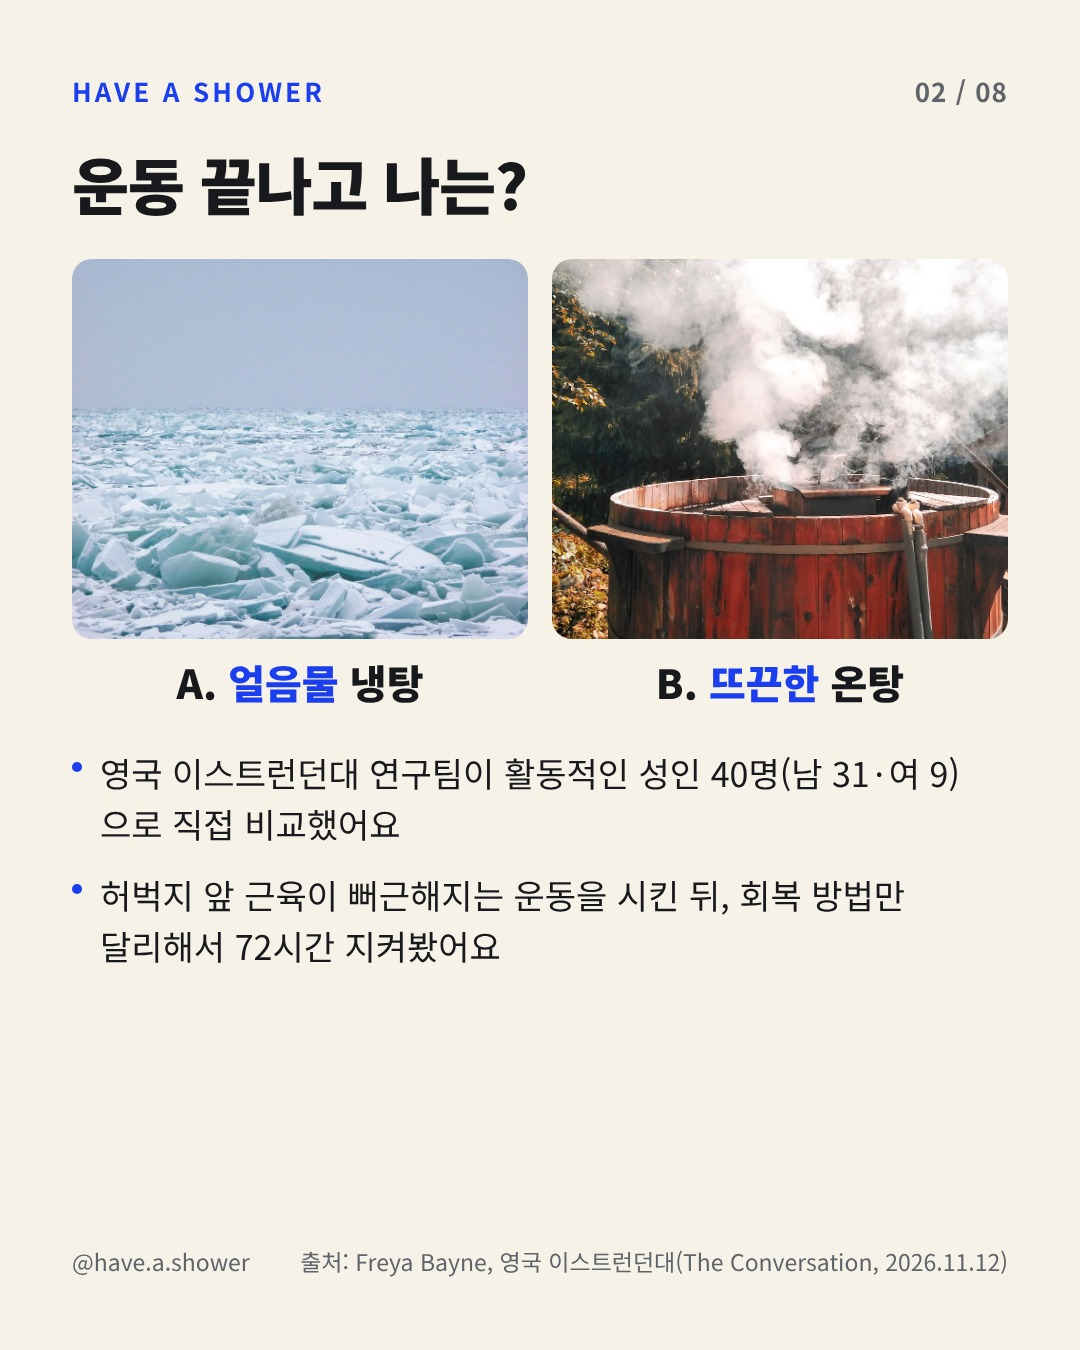
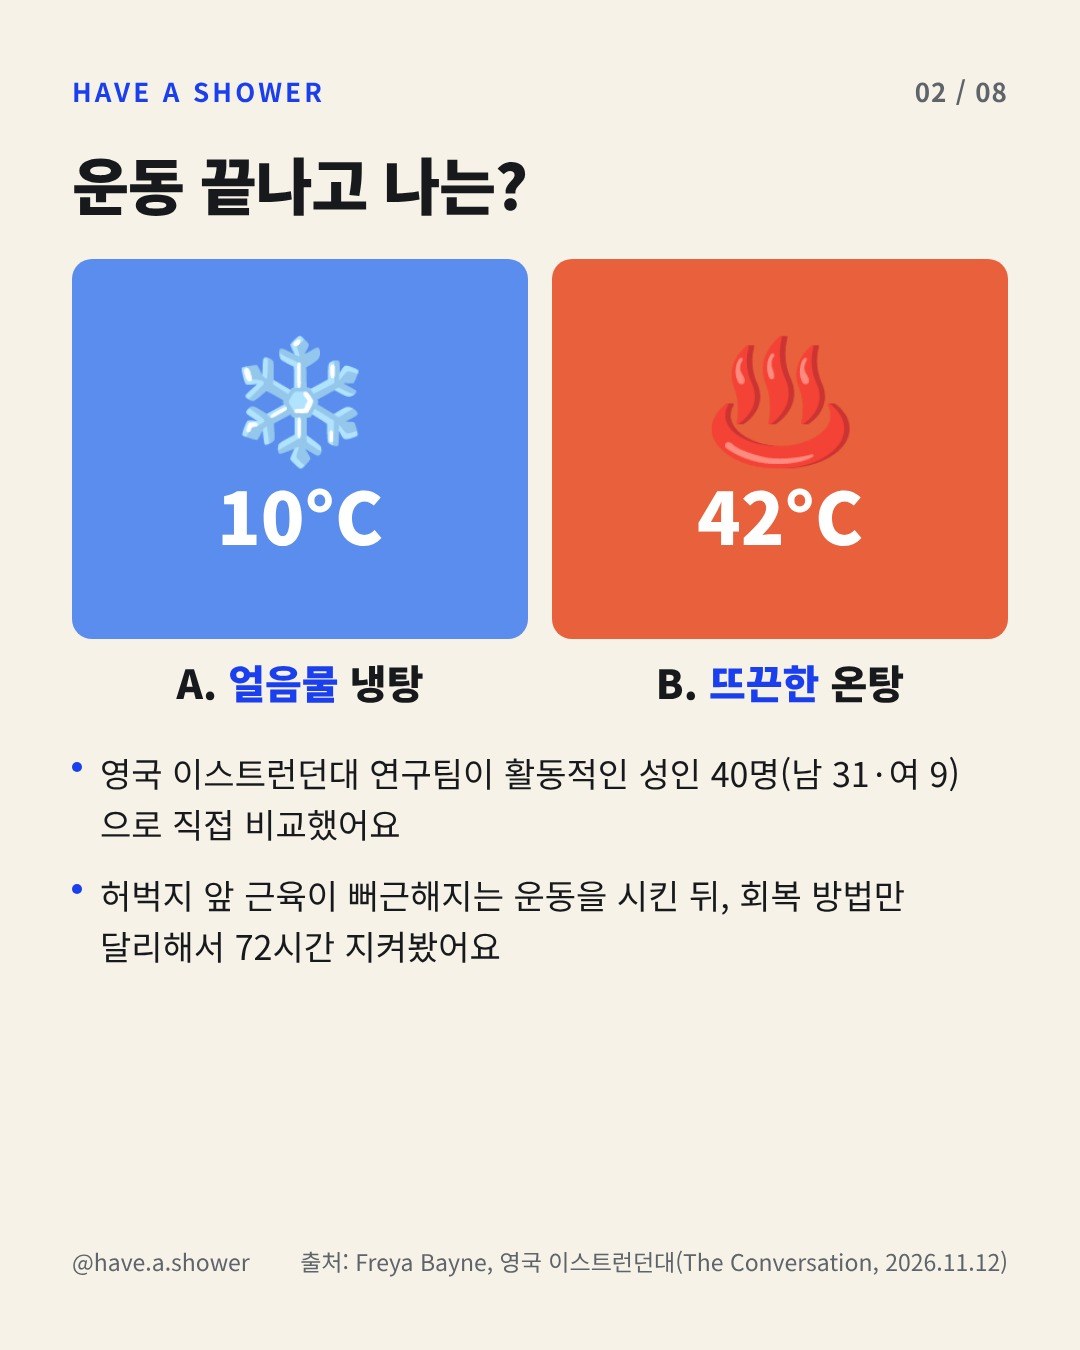
No.20 분위기 사진을 그래픽으로 교체 (사진 규칙)
Claude-Session: https://claude.ai/code/session_01MYgG3nFawowioXgGEyeZyo

Changed region(s): [[0.0611, 0.1867, 0.9472, 0.4978]]

diff --git a/cardnews/project/P20-2-Question.dc.html b/cardnews/project/P20-2-Question.dc.html
@@ -22,10 +22,10 @@ a{color:inherit}
 <h2 style="margin: 0; font-family: 'Gothic A1', 'Noto Sans KR', sans-serif; font-size: 62px; font-weight: 800; line-height: 1.25; letter-spacing: -0.02em; white-space: pre-line">운동 끝나고 나는?</h2>
 
 <div style="display: flex; gap: 24px"><div style="flex: 1; display: flex; flex-direction: column; gap: 14px">
-<div style="height: 380px; border-radius: 20px; overflow: hidden"><img src="/_blob/8d385385e355e4c6eee4ad241f609c9b" alt="" style="width: 100%; height: 100%; object-fit: cover; object-position: 50% 50%; display: block"></div>
+<div style="height: 380px; border-radius: 20px; background: #5B8DEF; display: flex; flex-direction: column; align-items: center; justify-content: center; gap: 10px"><div style="font-size: 120px; line-height: 1">❄</div><div style="font-family: 'Gothic A1', 'Noto Sans KR', sans-serif; font-size: 72px; font-weight: 800; color: #FFFFFF">10°C</div></div>
 <div style="font-family: 'Gothic A1', 'Noto Sans KR', sans-serif; font-size: 40px; font-weight: 800; text-align: center">A. <span style="color: {{accent}}">얼음물</span> 냉탕</div>
 </div><div style="flex: 1; display: flex; flex-direction: column; gap: 14px">
-<div style="height: 380px; border-radius: 20px; overflow: hidden"><img src="/_blob/aa885ee38caf06747531b8c4885c95b9" alt="" style="width: 100%; height: 100%; object-fit: cover; object-position: 40% 60%; display: block"></div>
+<div style="height: 380px; border-radius: 20px; background: #E8613C; display: flex; flex-direction: column; align-items: center; justify-content: center; gap: 10px"><div style="font-size: 120px; line-height: 1">♨</div><div style="font-family: 'Gothic A1', 'Noto Sans KR', sans-serif; font-size: 72px; font-weight: 800; color: #FFFFFF">42°C</div></div>
 <div style="font-family: 'Gothic A1', 'Noto Sans KR', sans-serif; font-size: 40px; font-weight: 800; text-align: center">B. <span style="color: {{accent}}">뜨끈한</span> 온탕</div>
 </div></div>
 <div style="display: flex; flex-direction: column; gap: 20px"><div style="display: flex; gap: 18px; align-items: flex-start">

diff --git a/cardnews/project/P20-6-Heat.dc.html b/cardnews/project/P20-6-Heat.dc.html
@@ -22,7 +22,7 @@ a{color:inherit}
 <h2 style="margin: 0; font-family: 'Gothic A1', 'Noto Sans KR', sans-serif; font-size: 62px; font-weight: 800; line-height: 1.25; letter-spacing: -0.02em; white-space: pre-line">결과 ③ 몸속 회복 신호는
 <span style="color: {{accent}}">따뜻한 쪽</span>이 좋았어요</h2>
 
-<div style="height: 360px; border-radius: 20px; overflow: hidden"><img src="/_blob/aa885ee38caf06747531b8c4885c95b9" alt="김이 나는 온탕" style="width: 100%; height: 100%; object-fit: cover; object-position: 50% 45%; display: block"></div>
+<div style="background: {{accent}}; border-radius: 20px; padding: 44px 52px; display: flex; flex-direction: column; gap: 14px"><div style="font-size: 30px; font-weight: 700; color: rgba(255,255,255,0.85)">♨ 42°C 따뜻한 물 그룹</div><div style="font-family: 'Gothic A1', 'Noto Sans KR', sans-serif; font-size: 76px; font-weight: 800; line-height: 1.15; letter-spacing: -0.03em; color: #FFE14A">열충격단백질(HSP72) ↑</div></div>
 <div style="display: flex; flex-direction: column; gap: 20px"><div style="display: flex; gap: 18px; align-items: flex-start">
 <div style="width: 10px; height: 10px; border-radius: 5px; margin-top: 15px; flex-shrink: 0; background: {{accent}}"></div>
 <div style="font-size: 35px; line-height: 1.5">온열(따뜻한 물·뜨거운 공기) 그룹이 근육 손상·염증 지표 변화가 더 좋았어요</div>

diff --git a/cardnews/project/P20-5-Soreness.dc.html b/cardnews/project/P20-5-Soreness.dc.html
@@ -22,7 +22,7 @@ a{color:inherit}
 <h2 style="margin: 0; font-family: 'Gothic A1', 'Noto Sans KR', sans-serif; font-size: 62px; font-weight: 800; line-height: 1.25; letter-spacing: -0.02em; white-space: pre-line">결과 ② 덜 아픈 느낌은
 <span style="color: {{accent}}">찬물이 1등</span></h2>
 
-<div style="height: 360px; border-radius: 20px; overflow: hidden"><img src="/_blob/8d385385e355e4c6eee4ad241f609c9b" alt="얼음물" style="width: 100%; height: 100%; object-fit: cover; object-position: 50% 60%; display: block"></div>
+<div style="background: {{accent}}; border-radius: 20px; padding: 44px 52px; display: flex; flex-direction: column; gap: 14px"><div style="font-size: 30px; font-weight: 700; color: rgba(255,255,255,0.85)">❄ 찬물 그룹</div><div style="font-family: 'Gothic A1', 'Noto Sans KR', sans-serif; font-size: 76px; font-weight: 800; line-height: 1.15; letter-spacing: -0.03em; color: #FFE14A">느끼는 근육통 ↓ 가장 많이</div></div>
 <div style="display: flex; flex-direction: column; gap: 20px"><div style="display: flex; gap: 18px; align-items: flex-start">
 <div style="width: 10px; height: 10px; border-radius: 5px; margin-top: 15px; flex-shrink: 0; background: {{accent}}"></div>
 <div style="font-size: 35px; line-height: 1.5">찬물에 담근 그룹이 ‘느끼는 근육통’을 가장 잘 줄였어요</div>

diff --git a/cardnews/make_p19_p20.py b/cardnews/make_p19_p20.py
@@ -70,14 +70,14 @@ C20 = {
 write('P20-1-Cover.dc.html', '냉탕 온탕 커버',
       cover(20, '/_blob/6092733fc9fe1049e072d39ca79a9801', '62% 40%', C20[pick.get('20', 'A')]))
 
-def half(img, label, pos='50% 50%'):
+def half(emoji, label, temp, bg):
     return f'''<div style="flex: 1; display: flex; flex-direction: column; gap: 14px">
-<div style="height: 380px; border-radius: 20px; overflow: hidden"><img src="{img}" alt="" style="width: 100%; height: 100%; object-fit: cover; object-position: {pos}; display: block"></div>
+<div style="height: 380px; border-radius: 20px; background: {bg}; display: flex; flex-direction: column; align-items: center; justify-content: center; gap: 10px"><div style="font-size: 120px; line-height: 1">{emoji}</div><div style="font-family: {GOTHIC}; font-size: 72px; font-weight: 800; color: #FFFFFF">{temp}</div></div>
 <div style="font-family: {GOTHIC}; font-size: 40px; font-weight: 800; text-align: center">{label}</div>
 </div>'''
 
 write('P20-2-Question.dc.html', '질문', page(2, 8, f'운동 끝나고 나는?', f'''
-<div style="display: flex; gap: 24px">{half("/_blob/8d385385e355e4c6eee4ad241f609c9b", f'A. {acc("얼음물")} 냉탕')}{half("/_blob/aa885ee38caf06747531b8c4885c95b9", f'B. {acc("뜨끈한")} 온탕', '40% 60%')}</div>
+<div style="display: flex; gap: 24px">{half("❄", f'A. {acc("얼음물")} 냉탕', "10°C", "#5B8DEF")}{half("♨", f'B. {acc("뜨끈한")} 온탕', "42°C", "#E8613C")}</div>
 {bullets(["영국 이스트런던대 연구팀이 활동적인 성인 40명(남 31·여 9)으로 직접 비교했어요", "허벅지 앞 근육이 뻐근해지는 운동을 시킨 뒤, 회복 방법만 달리해서 72시간 지켜봤어요"], 34)}''', S20))
 
 groups = [('❄', '찬물에 몸 담그기', '10°C'), ('♨', '따뜻한 물에 몸 담그기', '42°C'),
@@ -103,11 +103,11 @@ write('P20-4-Strength.dc.html', '결과1 근력', page(4, 8, f'결과 ① 힘이
 {bullets(["어떤 방법도 다른 방법보다 근력을 ‘확실히 더 빨리’ 돌려놓지는 못했어요", "찬물 그룹이 숫자로는 조금 낮았지만, 의미 있는 차이로 보기는 어려웠어요"], 36)}''', S20))
 
 write('P20-5-Soreness.dc.html', '결과2 근육통', page(5, 8, f'결과 ② 덜 아픈 느낌은\n{acc("찬물이 1등")}', f'''
-<div style="height: 360px; border-radius: 20px; overflow: hidden"><img src="/_blob/8d385385e355e4c6eee4ad241f609c9b" alt="얼음물" style="width: 100%; height: 100%; object-fit: cover; object-position: 50% 60%; display: block"></div>
+{bigbox("❄ 찬물 그룹", "느끼는 근육통 ↓ 가장 많이", 76)}
 {bullets(["찬물에 담근 그룹이 ‘느끼는 근육통’을 가장 잘 줄였어요", "하지만 몸속 회복 지표(근육 손상·염증)는 찬물에서 좋아지지 않았어요", "아픈 느낌을 줄여 주는 것과, 몸이 회복하는 것은 다를 수 있다는 뜻이에요"], 35)}''', S20))
 
 write('P20-6-Heat.dc.html', '결과3 온열', page(6, 8, f'결과 ③ 몸속 회복 신호는\n{acc("따뜻한 쪽")}이 좋았어요', f'''
-<div style="height: 360px; border-radius: 20px; overflow: hidden"><img src="/_blob/aa885ee38caf06747531b8c4885c95b9" alt="김이 나는 온탕" style="width: 100%; height: 100%; object-fit: cover; object-position: 50% 45%; display: block"></div>
+{bigbox("♨ 42°C 따뜻한 물 그룹", "열충격단백질(HSP72) ↑", 76)}
 {bullets(["온열(따뜻한 물·뜨거운 공기) 그룹이 근육 손상·염증 지표 변화가 더 좋았어요", "42°C 물에 담근 그룹은 ‘열충격단백질(HSP72)’이 더 높았어요. 몸이 열 스트레스에 반응해 세포를 지키려고 만드는 단백질이에요"], 35)}''', S20))
 
 choice = [('오늘 다리가 너무 아프다', '❄ 찬물', '덜 아프게'), ('몸 회복을 돕고 싶다', '♨ 따뜻한 물·사우나', '회복 지표'),

diff --git a/briefs/2026-11-13.md b/briefs/2026-11-13.md
@@ -133,3 +133,4 @@
 - ⚠ 인스타 API 게시 막힘(11/11~) 해결 전이라 점검·게시 안 함.
 - 12:54 대표 "올려줘" → 두 편 점검(publish=false) 통과. 12:56 No.19 게시(publish=true) ❌ 실패: 사진 업로드까지는 되고 media_publish에서 또 403 `action is blocked`(code 4, subcode 2207051). 11/11부터 4번 연속 같은 오류 → No.20 게시는 시도 안 함. 앱 직접 업로드용 파일 묶음을 대표에게 전달.
 - ✅ 정정(13:05): insights로 확인해 보니 **No.19는 12:57에 실제로 게시됨**(https://www.instagram.com/p/Dfqt3cjkbOn/). 11/11 No.16, 11/12 No.17·No.18도 모두 올라가 있었음. API가 403을 돌려주지만 게시는 되는 상태 → 각 폴더에 posted.txt 수동 기록. No.20은 18:00 게시 예정.
+- 대표: 앞으로 사진은 제품·얼굴 보이는 것만 → 미게시 No.20의 얼음·김 사진 3곳을 그래픽(온도 카드·숫자 박스)으로 교체. 표지(얼굴)는 유지.
